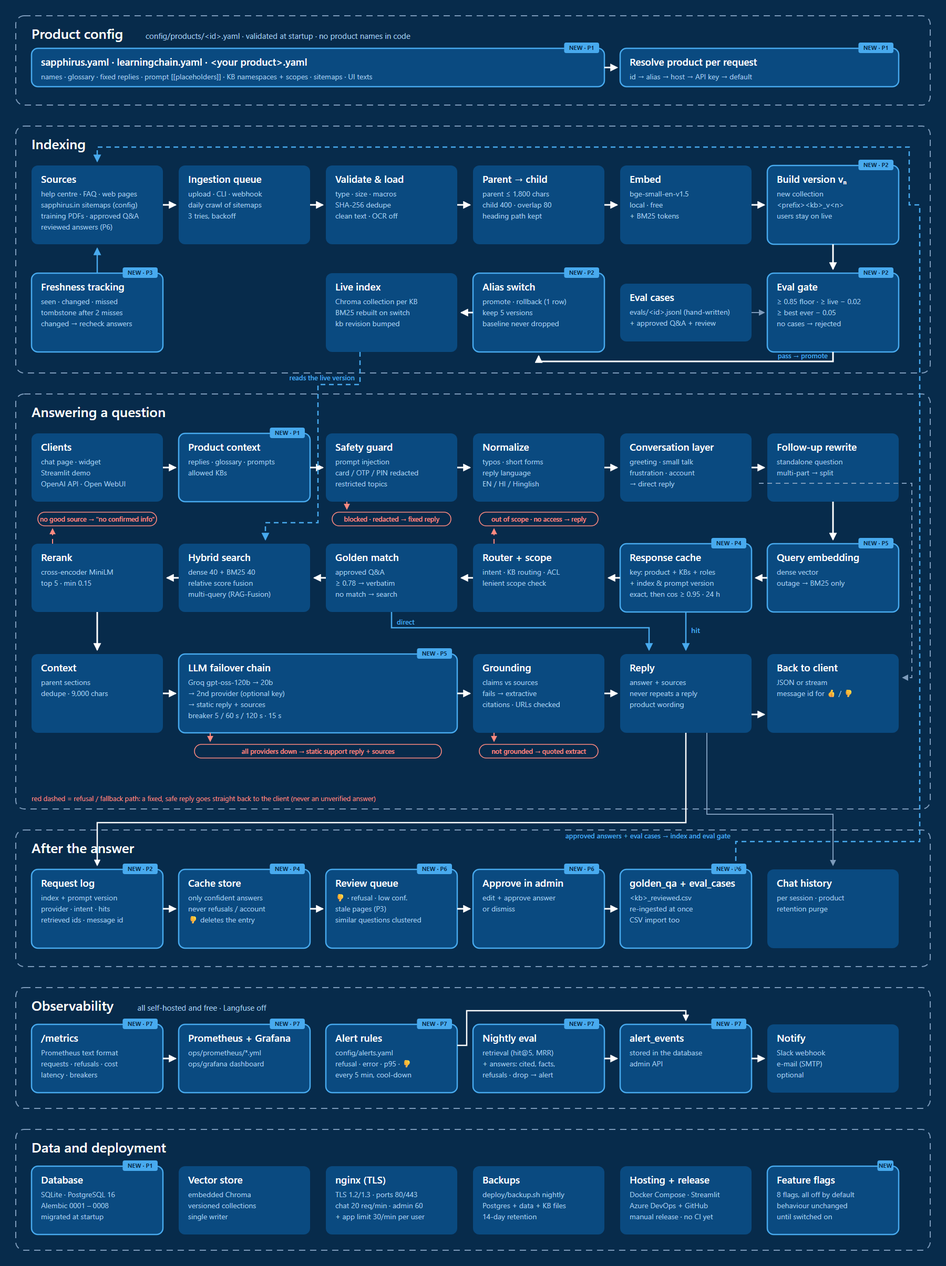
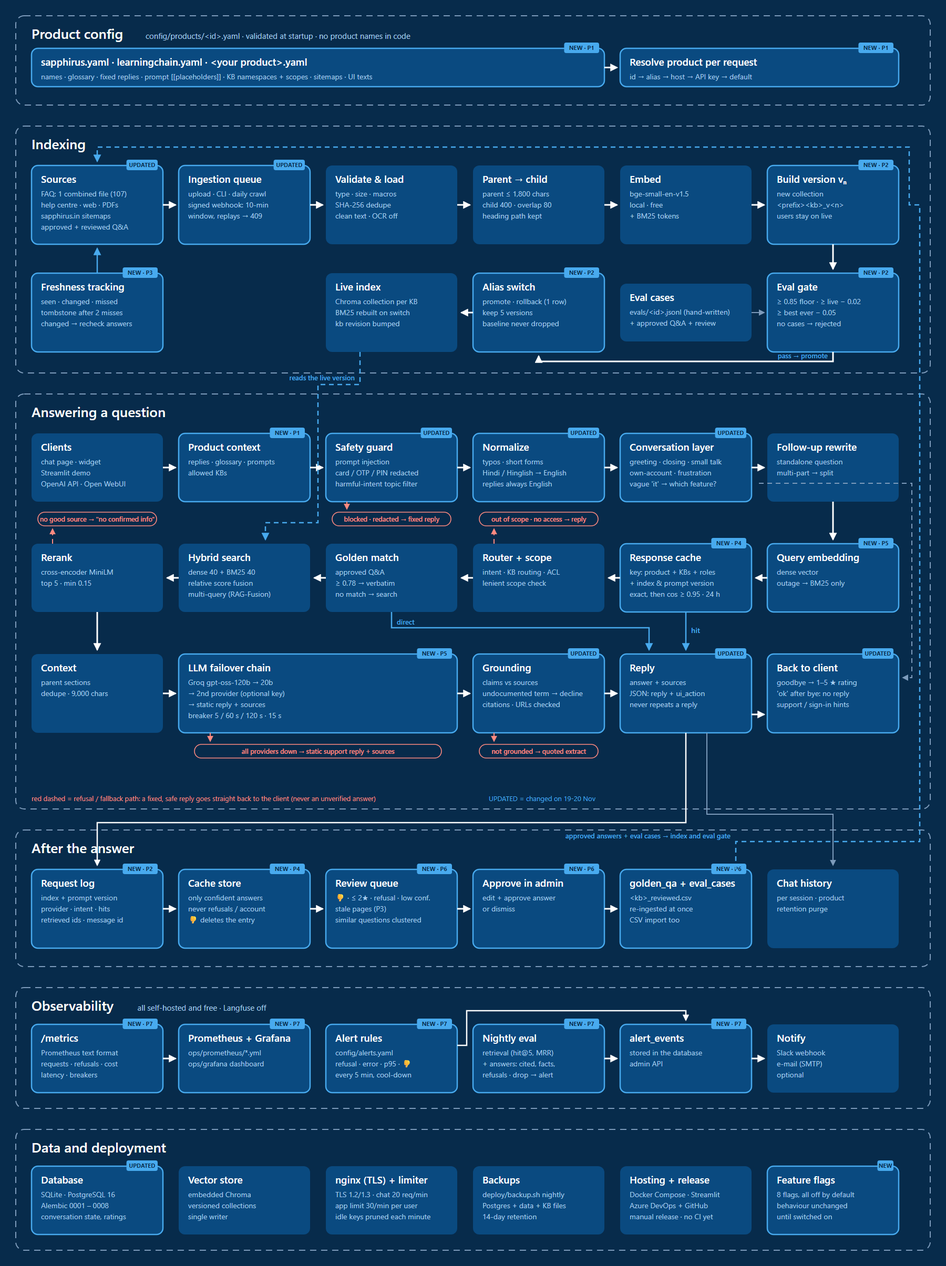
Architecture update (19-20 Nov changes) and certificate-theft questions
- Diagram + docs/architecture.md: rating flow, combined FAQ, English-only replies, review and evaluation fixes
- Theft phrasings added as alternates of FAQ LC-006 ('Can someone steal my certificate?')
- Tests: 403 passed

diff --git a/docs/diagrams/08_rag_architecture.html b/docs/diagrams/08_rag_architecture.html
@@ -34,6 +34,9 @@ td code { font-family: var(--mono); font-size: 12.5px; color: var(--muted); }
 <div class="wrap">
 <header>
   <h1>Sapphirus AI Assistant: RAG architecture after the upgrade</h1>
+  <p>Updated 20 Nov 2026 - blocks tagged <span class="tag">UPDATED</span> changed after the 7-phase upgrade:
+  conversation ending and rating, one combined FAQ file, English-only replies, the senior-review fixes (webhook replay,
+  rate limiter, topic filter) and the evaluation fixes (own-account check, vague questions, undocumented-term guard).</p>
   <p>How the assistant indexes content and answers a question after the seven-phase upgrade (19 Nov 2026), drawn from
   the current code. Blocks outlined in light blue with a <span class="tag">NEW</span> tag were added by the upgrade
   (P1-P7 = phase). Every new block sits behind a feature flag that is off by default; all of it runs on free
@@ -64,17 +67,21 @@ td code { font-family: var(--mono); font-size: 12.5px; color: var(--muted); }
   <path d="M1150 128.5 L1174 128.5" fill="none" stroke="#ffffff" stroke-width="3" marker-end="url(#ah)"/>
   <rect x="30" y="240" width="1740" height="470" rx="16" fill="none" stroke="#7d9bbb" stroke-width="2" stroke-dasharray="12 9"/>
   <text x="60" y="284" fill="#ffffff" font-size="26" font-weight="600" text-anchor="start">Indexing</text>
-  <rect x="60" y="315" width="250" height="150" rx="12" fill="#0a4a80"/>
+  <rect x="60" y="315" width="250" height="150" rx="12" fill="#0a4a80" stroke="#48aaee" stroke-width="2.5"/>
   <text x="78" y="348" fill="#ffffff" font-size="19" font-weight="600" text-anchor="start">Sources</text>
-  <text x="78" y="374" fill="#a9cdee" font-size="14" font-weight="400" text-anchor="start">help centre · FAQ · web pages</text>
-  <text x="78" y="395" fill="#a9cdee" font-size="14" font-weight="400" text-anchor="start">sapphirus.in sitemaps (config)</text>
-  <text x="78" y="416" fill="#a9cdee" font-size="14" font-weight="400" text-anchor="start">training PDFs · approved Q&amp;A</text>
-  <text x="78" y="437" fill="#a9cdee" font-size="14" font-weight="400" text-anchor="start">reviewed answers (P6)</text>
-  <rect x="340" y="315" width="250" height="150" rx="12" fill="#0a4a80"/>
+  <text x="78" y="374" fill="#a9cdee" font-size="14" font-weight="400" text-anchor="start">FAQ: 1 combined file (107)</text>
+  <text x="78" y="395" fill="#a9cdee" font-size="14" font-weight="400" text-anchor="start">help centre · web · PDFs</text>
+  <text x="78" y="416" fill="#a9cdee" font-size="14" font-weight="400" text-anchor="start">sapphirus.in sitemaps</text>
+  <text x="78" y="437" fill="#a9cdee" font-size="14" font-weight="400" text-anchor="start">approved + reviewed Q&amp;A</text>
+  <rect x="240.6" y="304" width="59.4" height="20" rx="4" fill="#48aaee"/>
+  <text x="270.3" y="318" fill="#072b4b" font-size="11" font-weight="700" text-anchor="middle">UPDATED</text>
+  <rect x="340" y="315" width="250" height="150" rx="12" fill="#0a4a80" stroke="#48aaee" stroke-width="2.5"/>
   <text x="358" y="348" fill="#ffffff" font-size="19" font-weight="600" text-anchor="start">Ingestion queue</text>
-  <text x="358" y="374" fill="#a9cdee" font-size="14" font-weight="400" text-anchor="start">upload · CLI · webhook</text>
-  <text x="358" y="395" fill="#a9cdee" font-size="14" font-weight="400" text-anchor="start">daily crawl of sitemaps</text>
-  <text x="358" y="416" fill="#a9cdee" font-size="14" font-weight="400" text-anchor="start">3 tries, backoff</text>
+  <text x="358" y="374" fill="#a9cdee" font-size="14" font-weight="400" text-anchor="start">upload · CLI · daily crawl</text>
+  <text x="358" y="395" fill="#a9cdee" font-size="14" font-weight="400" text-anchor="start">signed webhook: 10-min</text>
+  <text x="358" y="416" fill="#a9cdee" font-size="14" font-weight="400" text-anchor="start">window, replays → 409</text>
+  <rect x="520.6" y="304" width="59.4" height="20" rx="4" fill="#48aaee"/>
+  <text x="550.3" y="318" fill="#072b4b" font-size="11" font-weight="700" text-anchor="middle">UPDATED</text>
   <rect x="620" y="315" width="250" height="150" rx="12" fill="#0a4a80"/>
   <text x="638" y="348" fill="#ffffff" font-size="19" font-weight="600" text-anchor="start">Validate &amp; load</text>
   <text x="638" y="374" fill="#a9cdee" font-size="14" font-weight="400" text-anchor="start">type · size · macros</text>
@@ -151,21 +158,27 @@ td code { font-family: var(--mono); font-size: 12.5px; color: var(--muted); }
   <text x="358" y="905" fill="#a9cdee" font-size="14" font-weight="400" text-anchor="start">allowed KBs</text>
   <rect x="513.4" y="814" width="66.6" height="20" rx="4" fill="#48aaee"/>
   <text x="546.7" y="828" fill="#072b4b" font-size="11" font-weight="700" text-anchor="middle">NEW · P1</text>
-  <rect x="620" y="825" width="250" height="130" rx="12" fill="#0a4a80"/>
+  <rect x="620" y="825" width="250" height="130" rx="12" fill="#0a4a80" stroke="#48aaee" stroke-width="2.5"/>
   <text x="638" y="858" fill="#ffffff" font-size="19" font-weight="600" text-anchor="start">Safety guard</text>
   <text x="638" y="884" fill="#a9cdee" font-size="14" font-weight="400" text-anchor="start">prompt injection</text>
   <text x="638" y="905" fill="#a9cdee" font-size="14" font-weight="400" text-anchor="start">card / OTP / PIN redacted</text>
-  <text x="638" y="926" fill="#a9cdee" font-size="14" font-weight="400" text-anchor="start">restricted topics</text>
-  <rect x="900" y="825" width="250" height="130" rx="12" fill="#0a4a80"/>
+  <text x="638" y="926" fill="#a9cdee" font-size="14" font-weight="400" text-anchor="start">harmful-intent topic filter</text>
+  <rect x="800.6" y="814" width="59.4" height="20" rx="4" fill="#48aaee"/>
+  <text x="830.3" y="828" fill="#072b4b" font-size="11" font-weight="700" text-anchor="middle">UPDATED</text>
+  <rect x="900" y="825" width="250" height="130" rx="12" fill="#0a4a80" stroke="#48aaee" stroke-width="2.5"/>
   <text x="918" y="858" fill="#ffffff" font-size="19" font-weight="600" text-anchor="start">Normalize</text>
   <text x="918" y="884" fill="#a9cdee" font-size="14" font-weight="400" text-anchor="start">typos · short forms</text>
-  <text x="918" y="905" fill="#a9cdee" font-size="14" font-weight="400" text-anchor="start">reply language</text>
-  <text x="918" y="926" fill="#a9cdee" font-size="14" font-weight="400" text-anchor="start">EN / HI / Hinglish</text>
-  <rect x="1180" y="825" width="250" height="130" rx="12" fill="#0a4a80"/>
+  <text x="918" y="905" fill="#a9cdee" font-size="14" font-weight="400" text-anchor="start">Hindi / Hinglish → English</text>
+  <text x="918" y="926" fill="#a9cdee" font-size="14" font-weight="400" text-anchor="start">replies always English</text>
+  <rect x="1080.6" y="814" width="59.4" height="20" rx="4" fill="#48aaee"/>
+  <text x="1110.3" y="828" fill="#072b4b" font-size="11" font-weight="700" text-anchor="middle">UPDATED</text>
+  <rect x="1180" y="825" width="250" height="130" rx="12" fill="#0a4a80" stroke="#48aaee" stroke-width="2.5"/>
   <text x="1198" y="858" fill="#ffffff" font-size="19" font-weight="600" text-anchor="start">Conversation layer</text>
-  <text x="1198" y="884" fill="#a9cdee" font-size="14" font-weight="400" text-anchor="start">greeting · small talk</text>
-  <text x="1198" y="905" fill="#a9cdee" font-size="14" font-weight="400" text-anchor="start">frustration · account</text>
-  <text x="1198" y="926" fill="#a9cdee" font-size="14" font-weight="400" text-anchor="start">→ direct reply</text>
+  <text x="1198" y="884" fill="#a9cdee" font-size="14" font-weight="400" text-anchor="start">greeting · closing · small talk</text>
+  <text x="1198" y="905" fill="#a9cdee" font-size="14" font-weight="400" text-anchor="start">own-account · frustration</text>
+  <text x="1198" y="926" fill="#a9cdee" font-size="14" font-weight="400" text-anchor="start">vague &#x27;it&#x27; → which feature?</text>
+  <rect x="1360.6" y="814" width="59.4" height="20" rx="4" fill="#48aaee"/>
+  <text x="1390.3" y="828" fill="#072b4b" font-size="11" font-weight="700" text-anchor="middle">UPDATED</text>
   <rect x="1460" y="825" width="250" height="130" rx="12" fill="#0a4a80"/>
   <text x="1478" y="858" fill="#ffffff" font-size="19" font-weight="600" text-anchor="start">Follow-up rewrite</text>
   <text x="1478" y="884" fill="#a9cdee" font-size="14" font-weight="400" text-anchor="start">standalone question</text>
@@ -226,16 +239,20 @@ td code { font-family: var(--mono); font-size: 12.5px; color: var(--muted); }
   <text x="358" y="1367" fill="#a9cdee" font-size="14" font-weight="400" text-anchor="start">breaker 5 / 60 s / 120 s · 15 s</text>
   <rect x="793.4" y="1234" width="66.6" height="20" rx="4" fill="#48aaee"/>
   <text x="826.7" y="1248" fill="#072b4b" font-size="11" font-weight="700" text-anchor="middle">NEW · P5</text>
-  <rect x="900" y="1245" width="250" height="150" rx="12" fill="#0a4a80"/>
+  <rect x="900" y="1245" width="250" height="150" rx="12" fill="#0a4a80" stroke="#48aaee" stroke-width="2.5"/>
   <text x="918" y="1278" fill="#ffffff" font-size="19" font-weight="600" text-anchor="start">Grounding</text>
   <text x="918" y="1304" fill="#a9cdee" font-size="14" font-weight="400" text-anchor="start">claims vs sources</text>
-  <text x="918" y="1325" fill="#a9cdee" font-size="14" font-weight="400" text-anchor="start">fails → extractive</text>
+  <text x="918" y="1325" fill="#a9cdee" font-size="14" font-weight="400" text-anchor="start">undocumented term → decline</text>
   <text x="918" y="1346" fill="#a9cdee" font-size="14" font-weight="400" text-anchor="start">citations · URLs checked</text>
-  <rect x="1180" y="1245" width="250" height="150" rx="12" fill="#0a4a80"/>
+  <rect x="1080.6" y="1234" width="59.4" height="20" rx="4" fill="#48aaee"/>
+  <text x="1110.3" y="1248" fill="#072b4b" font-size="11" font-weight="700" text-anchor="middle">UPDATED</text>
+  <rect x="1180" y="1245" width="250" height="150" rx="12" fill="#0a4a80" stroke="#48aaee" stroke-width="2.5"/>
   <text x="1198" y="1278" fill="#ffffff" font-size="19" font-weight="600" text-anchor="start">Reply</text>
   <text x="1198" y="1304" fill="#a9cdee" font-size="14" font-weight="400" text-anchor="start">answer + sources</text>
-  <text x="1198" y="1325" fill="#a9cdee" font-size="14" font-weight="400" text-anchor="start">never repeats a reply</text>
-  <text x="1198" y="1346" fill="#a9cdee" font-size="14" font-weight="400" text-anchor="start">product wording</text>
+  <text x="1198" y="1325" fill="#a9cdee" font-size="14" font-weight="400" text-anchor="start">JSON: reply + ui_action</text>
+  <text x="1198" y="1346" fill="#a9cdee" font-size="14" font-weight="400" text-anchor="start">never repeats a reply</text>
+  <rect x="1360.6" y="1234" width="59.4" height="20" rx="4" fill="#48aaee"/>
+  <text x="1390.3" y="1248" fill="#072b4b" font-size="11" font-weight="700" text-anchor="middle">UPDATED</text>
   <path d="M185.0 1165 L185.0 1237" fill="none" stroke="#ffffff" stroke-width="3" marker-end="url(#ah)"/>
   <path d="M310 1320.0 L334 1320.0" fill="none" stroke="#ffffff" stroke-width="3" marker-end="url(#ah)"/>
   <path d="M870 1320.0 L894 1320.0" fill="none" stroke="#ffffff" stroke-width="3" marker-end="url(#ah)"/>
@@ -244,10 +261,13 @@ td code { font-family: var(--mono); font-size: 12.5px; color: var(--muted); }
   <text x="1315.0" y="1205" fill="#48aaee" font-size="14" font-weight="600" text-anchor="start">hit</text>
   <path d="M745.0 1165 L745.0 1195 L1235.0 1195 L1235.0 1237" fill="none" stroke="#48aaee" stroke-width="2.5" marker-end="url(#aha)"/>
   <text x="755.0" y="1189" fill="#48aaee" font-size="13" font-weight="600" text-anchor="start">direct</text>
-  <rect x="1460" y="1245" width="250" height="150" rx="12" fill="#0a4a80"/>
+  <rect x="1460" y="1245" width="250" height="150" rx="12" fill="#0a4a80" stroke="#48aaee" stroke-width="2.5"/>
   <text x="1478" y="1278" fill="#ffffff" font-size="19" font-weight="600" text-anchor="start">Back to client</text>
-  <text x="1478" y="1304" fill="#a9cdee" font-size="14" font-weight="400" text-anchor="start">JSON or stream</text>
-  <text x="1478" y="1325" fill="#a9cdee" font-size="14" font-weight="400" text-anchor="start">message id for 👍 / 👎</text>
+  <text x="1478" y="1304" fill="#a9cdee" font-size="14" font-weight="400" text-anchor="start">goodbye → 1–5 ★ rating</text>
+  <text x="1478" y="1325" fill="#a9cdee" font-size="14" font-weight="400" text-anchor="start">&#x27;ok&#x27; after bye: no reply</text>
+  <text x="1478" y="1346" fill="#a9cdee" font-size="14" font-weight="400" text-anchor="start">support / sign-in hints</text>
+  <rect x="1640.6" y="1234" width="59.4" height="20" rx="4" fill="#48aaee"/>
+  <text x="1670.3" y="1248" fill="#072b4b" font-size="11" font-weight="700" text-anchor="middle">UPDATED</text>
   <rect x="632" y="975" width="226" height="26" rx="13" fill="#072b4b" stroke="#ff8a80" stroke-width="1.6"/>
   <text x="745.0" y="993" fill="#ff8a80" font-size="12.5" font-weight="600" text-anchor="middle">blocked · redacted → fixed reply</text>
   <path d="M660 955 L660 969" fill="none" stroke="#ff8a80" stroke-width="2" stroke-dasharray="9 7" marker-end="url(#ahr)"/>
@@ -263,6 +283,7 @@ td code { font-family: var(--mono); font-size: 12.5px; color: var(--muted); }
   <rect x="912" y="1417" width="226" height="26" rx="13" fill="#072b4b" stroke="#ff8a80" stroke-width="1.6"/>
   <text x="1025.0" y="1435" fill="#ff8a80" font-size="12.5" font-weight="600" text-anchor="middle">not grounded → quoted extract</text>
   <path d="M940 1395 L940 1411" fill="none" stroke="#ff8a80" stroke-width="2" stroke-dasharray="9 7" marker-end="url(#ahr)"/>
+  <text x="930" y="1525" fill="#48aaee" font-size="13" font-weight="400" text-anchor="start">UPDATED = changed on 19-20 Nov</text>
   <text x="60" y="1525" fill="#ff8a80" font-size="13" font-weight="400" text-anchor="start">red dashed = refusal / fallback path: a fixed, safe reply goes straight back to the client (never an unverified answer)</text>
   <path d="M1444 920.0 L1735 920.0 L1735 1290.0 L1718 1290.0" fill="none" stroke="#7d9bbb" stroke-width="2" stroke-dasharray="9 7" marker-end="url(#ahm)"/>
   <path d="M1430 1360.0 L1454 1360.0" fill="none" stroke="#ffffff" stroke-width="3" marker-end="url(#ah)"/>
@@ -284,7 +305,7 @@ td code { font-family: var(--mono); font-size: 12.5px; color: var(--muted); }
   <text x="546.7" y="1658" fill="#072b4b" font-size="11" font-weight="700" text-anchor="middle">NEW · P4</text>
   <rect x="620" y="1655" width="250" height="150" rx="12" fill="#0a4a80" stroke="#48aaee" stroke-width="2.5"/>
   <text x="638" y="1688" fill="#ffffff" font-size="19" font-weight="600" text-anchor="start">Review queue</text>
-  <text x="638" y="1714" fill="#a9cdee" font-size="14" font-weight="400" text-anchor="start">👎 · refusal · low conf.</text>
+  <text x="638" y="1714" fill="#a9cdee" font-size="14" font-weight="400" text-anchor="start">👎 · ≤ 2★ · refusal · low conf.</text>
   <text x="638" y="1735" fill="#a9cdee" font-size="14" font-weight="400" text-anchor="start">stale pages (P3)</text>
   <text x="638" y="1756" fill="#a9cdee" font-size="14" font-weight="400" text-anchor="start">similar questions clustered</text>
   <rect x="793.4" y="1644" width="66.6" height="20" rx="4" fill="#48aaee"/>
@@ -365,19 +386,19 @@ td code { font-family: var(--mono); font-size: 12.5px; color: var(--muted); }
   <text x="78" y="2253" fill="#ffffff" font-size="19" font-weight="600" text-anchor="start">Database</text>
   <text x="78" y="2279" fill="#a9cdee" font-size="14" font-weight="400" text-anchor="start">SQLite · PostgreSQL 16</text>
   <text x="78" y="2300" fill="#a9cdee" font-size="14" font-weight="400" text-anchor="start">Alembic 0001 – 0008</text>
-  <text x="78" y="2321" fill="#a9cdee" font-size="14" font-weight="400" text-anchor="start">migrated at startup</text>
-  <rect x="233.4" y="2209" width="66.6" height="20" rx="4" fill="#48aaee"/>
-  <text x="266.7" y="2223" fill="#072b4b" font-size="11" font-weight="700" text-anchor="middle">NEW · P1</text>
+  <text x="78" y="2321" fill="#a9cdee" font-size="14" font-weight="400" text-anchor="start">conversation state, ratings</text>
+  <rect x="240.6" y="2209" width="59.4" height="20" rx="4" fill="#48aaee"/>
+  <text x="270.3" y="2223" fill="#072b4b" font-size="11" font-weight="700" text-anchor="middle">UPDATED</text>
   <rect x="340" y="2220" width="250" height="130" rx="12" fill="#0a4a80"/>
   <text x="358" y="2253" fill="#ffffff" font-size="19" font-weight="600" text-anchor="start">Vector store</text>
   <text x="358" y="2279" fill="#a9cdee" font-size="14" font-weight="400" text-anchor="start">embedded Chroma</text>
   <text x="358" y="2300" fill="#a9cdee" font-size="14" font-weight="400" text-anchor="start">versioned collections</text>
   <text x="358" y="2321" fill="#a9cdee" font-size="14" font-weight="400" text-anchor="start">single writer</text>
   <rect x="620" y="2220" width="250" height="130" rx="12" fill="#0a4a80"/>
-  <text x="638" y="2253" fill="#ffffff" font-size="19" font-weight="600" text-anchor="start">nginx (TLS)</text>
-  <text x="638" y="2279" fill="#a9cdee" font-size="14" font-weight="400" text-anchor="start">TLS 1.2/1.3 · ports 80/443</text>
-  <text x="638" y="2300" fill="#a9cdee" font-size="14" font-weight="400" text-anchor="start">chat 20 req/min · admin 60</text>
-  <text x="638" y="2321" fill="#a9cdee" font-size="14" font-weight="400" text-anchor="start">+ app limit 30/min per user</text>
+  <text x="638" y="2253" fill="#ffffff" font-size="19" font-weight="600" text-anchor="start">nginx (TLS) + limiter</text>
+  <text x="638" y="2279" fill="#a9cdee" font-size="14" font-weight="400" text-anchor="start">TLS 1.2/1.3 · chat 20 req/min</text>
+  <text x="638" y="2300" fill="#a9cdee" font-size="14" font-weight="400" text-anchor="start">app limit 30/min per user</text>
+  <text x="638" y="2321" fill="#a9cdee" font-size="14" font-weight="400" text-anchor="start">idle keys pruned each minute</text>
   <rect x="900" y="2220" width="250" height="130" rx="12" fill="#0a4a80"/>
   <text x="918" y="2253" fill="#ffffff" font-size="19" font-weight="600" text-anchor="start">Backups</text>
   <text x="918" y="2279" fill="#a9cdee" font-size="14" font-weight="400" text-anchor="start">deploy/backup.sh nightly</text>
@@ -405,7 +426,10 @@ td code { font-family: var(--mono); font-size: 12.5px; color: var(--muted); }
     <span class="chip">Embeddings: <b>bge-small-en-v1.5</b> (local)</span>
     <span class="chip">Search: <b>dense 40 + BM25 40, relative fusion, multi-query</b></span>
     <span class="chip">Rerank: <b>ms-marco-MiniLM-L-6-v2</b>, top 5</span>
-    <span class="chip">Database: <b>SQLite / PostgreSQL</b>, Alembic 0001-0007</span>
+    <span class="chip">Database: <b>SQLite / PostgreSQL</b>, Alembic 0001-0008</span>
+    <span class="chip">Replies: <b>English only</b> (other languages understood)</span>
+    <span class="chip">LearningChain FAQ: <b>107 approved answers</b> (FAQ_Master + 10 modes, 1 file)</span>
+    <span class="chip">Evaluation 20 Nov: <b>90% pass</b>, recall@5 0.95, 0 hallucinated claims</span>
     <span class="chip">Cache: <b>database table</b>, 24 h, semantic ≥ 0.95</span>
     <span class="chip">Eval gate: <b>floor 0.85 · live − 0.02 · best − 0.05</b>, fails closed</span>
     <span class="chip">Edge: <b>nginx TLS 1.2/1.3</b>, 20 req/min chat</span>
@@ -419,7 +443,7 @@ td code { font-family: var(--mono); font-size: 12.5px; color: var(--muted); }
   <h2>What the upgrade added</h2>
   <div class="tbl"><table>
     <tr><th>Stage</th><th>Flag</th><th>What it does</th><th>Code</th></tr>
-    <tr class="phase"><td colspan="4">Configuration</td></tr><tr><td>Product config<span class="tag">P1</span></td><td><code>PRODUCT_CONFIG_ENABLED</code></td><td>Names, glossary, replies, prompt placeholders, KB namespaces, sources and UI texts per product; resolved per request (id, alias, host, API key, default).</td><td><code>backend/products/, config/products/</code></td></tr><tr class="phase"><td colspan="4">Indexing</td></tr><tr><td>Index versions + eval gate<span class="tag">P2</span></td><td><code>INDEX_VERSIONING_ENABLED</code></td><td>Rebuild into a new collection, score hit@5 + MRR (no LLM) on hand-written + approved cases. Promote only if ≥ 0.85 floor, ≥ live − 0.02 and ≥ best ever − 0.05; no eval cases → rejected (fails closed). Instant rollback; 5 versions kept.</td><td><code>backend/indexing/versions.py, ingestion/cli.py</code></td></tr><tr><td>Freshness tracking<span class="tag">P3</span></td><td><code>DOC_TRACKING_ENABLED</code></td><td>Seen / changed / missed per crawled page; tombstone after 2 misses; product sitemaps crawled daily with include / exclude rules; changes drop cached answers and recheck approved answers.</td><td><code>ingestion/freshness.py, ingestion/automation.py</code></td></tr><tr class="phase"><td colspan="4">Answering</td></tr><tr><td>Response cache<span class="tag">P4</span></td><td><code>RESPONSE_CACHE_ENABLED</code></td><td>Database table, no Redis. The key includes product, allowed KBs, user roles, index and prompt version, so a cached answer can never cross an access boundary. Exact then semantic (cos ≥ 0.95); only confident answers; 24 h; 👎 deletes.</td><td><code>backend/services/response_cache.py</code></td></tr><tr><td>LLM failover<span class="tag">P5</span></td><td><code>LLM_FAILOVER_ENABLED</code></td><td>Groq (120b → 20b) → optional 2nd OpenAI-compatible provider → static reply with support contact and sources. Breaker 5 failures / 60 s → open 120 s; 15 s timeout, 1 retry; embedding outage → BM25 only.</td><td><code>backend/generation/failover.py</code></td></tr><tr class="phase"><td colspan="4">After the answer</td></tr><tr><td>Full request log<span class="tag">P2</span></td><td><code>always on</code></td><td>index_version, prompt_version, provider, intent, cache_hit, golden_hit, refused, retrieved chunk ids + scores, message_id on every metrics row.</td><td><code>backend/services/chat_service.py</code></td></tr><tr><td>Review queue<span class="tag">P6</span></td><td><code>REVIEW_QUEUE_ENABLED</code></td><td>👎, refusals, low-confidence answers and stale pages, clustered; approving adds golden_qa + eval_cases and re-ingests, so the next user gets the approved answer.</td><td><code>backend/services/review.py, admin.html</code></td></tr><tr class="phase"><td colspan="4">Observability</td></tr><tr><td>Metrics, alerts, nightly eval<span class="tag">P7</span></td><td><code>METRICS_ENABLED · ALERTS_ENABLED · NIGHTLY_EVAL_ENABLED</code></td><td>/metrics for Prometheus + Grafana dashboard; alert rules in config/alerts.yaml → alert_events → Slack / e-mail; nightly eval of retrieval AND answers (answered, cited, expected source, key facts, off-topic refused), saved per night; drop or low score → alert.</td><td><code>backend/observability/, ops/</code></td></tr>
+    <tr class="phase"><td colspan="4">Configuration</td></tr><tr><td>Product config<span class="tag">P1</span></td><td><code>PRODUCT_CONFIG_ENABLED</code></td><td>Names, glossary, replies, prompt placeholders, KB namespaces, sources and UI texts per product; resolved per request (id, alias, host, API key, default).</td><td><code>backend/products/, config/products/</code></td></tr><tr class="phase"><td colspan="4">Indexing</td></tr><tr><td>Index versions + eval gate<span class="tag">P2</span></td><td><code>INDEX_VERSIONING_ENABLED</code></td><td>Rebuild into a new collection, score hit@5 + MRR (no LLM) on hand-written + approved cases. Promote only if ≥ 0.85 floor, ≥ live − 0.02 and ≥ best ever − 0.05; no eval cases → rejected (fails closed). Instant rollback; 5 versions kept.</td><td><code>backend/indexing/versions.py, ingestion/cli.py</code></td></tr><tr><td>Freshness tracking<span class="tag">P3</span></td><td><code>DOC_TRACKING_ENABLED</code></td><td>Seen / changed / missed per crawled page; tombstone after 2 misses; product sitemaps crawled daily with include / exclude rules; changes drop cached answers and recheck approved answers.</td><td><code>ingestion/freshness.py, ingestion/automation.py</code></td></tr><tr class="phase"><td colspan="4">Answering</td></tr><tr><td>Response cache<span class="tag">P4</span></td><td><code>RESPONSE_CACHE_ENABLED</code></td><td>Database table, no Redis. The key includes product, allowed KBs, user roles, index and prompt version, so a cached answer can never cross an access boundary. Exact then semantic (cos ≥ 0.95); only confident answers; 24 h; 👎 deletes.</td><td><code>backend/services/response_cache.py</code></td></tr><tr><td>LLM failover<span class="tag">P5</span></td><td><code>LLM_FAILOVER_ENABLED</code></td><td>Groq (120b → 20b) → optional 2nd OpenAI-compatible provider → static reply with support contact and sources. Breaker 5 failures / 60 s → open 120 s; 15 s timeout, 1 retry; embedding outage → BM25 only.</td><td><code>backend/generation/failover.py</code></td></tr><tr class="phase"><td colspan="4">After the answer</td></tr><tr><td>Full request log<span class="tag">P2</span></td><td><code>always on</code></td><td>index_version, prompt_version, provider, intent, cache_hit, golden_hit, refused, retrieved chunk ids + scores, message_id on every metrics row.</td><td><code>backend/services/chat_service.py</code></td></tr><tr><td>Review queue<span class="tag">P6</span></td><td><code>REVIEW_QUEUE_ENABLED</code></td><td>👎, refusals, low-confidence answers and stale pages, clustered; approving adds golden_qa + eval_cases and re-ingests, so the next user gets the approved answer.</td><td><code>backend/services/review.py, admin.html</code></td></tr><tr class="phase"><td colspan="4">Updated 19-20 Nov</td></tr><tr><td>Conversation ending + rating<span class="tag">UPD</span></td><td><code>always on</code></td><td>&quot;no thanks&quot; / &quot;bye&quot; -&gt; goodbye + 1-5 star rating (ui_action = show_rating); per-session state active / closing / closed; &quot;ok&quot; or &quot;thanks&quot; after the goodbye: no LLM call and no new message; ratings &lt;= 2 go to the review queue. The LLM returns JSON {reply, ui_action, conversation_state}, validated with a safe fallback.</td><td><code>backend/services/chat_service.py, backend/generation/structured.py, chat.html</code></td></tr><tr><td>One combined FAQ file<span class="tag">UPD</span></td><td><code>-</code></td><td>datasets/source/LearningChain_FAQ_Combined.csv = FAQ_Master + the 10 certificate / QR modes: 107 served approved answers, 11 unfinished rows kept as drafts, repeated questions removed (their wording kept as alternates).</td><td><code>scripts/products/learningchain/combine_faq_sources.py, import_faq_master.py</code></td></tr><tr><td>English-only replies<span class="tag">UPD</span></td><td><code>-</code></td><td>Questions in Hindi, Hinglish or other languages are understood (translated for search); every answer is in English, so grounding always checks English text.</td><td><code>backend/routing/normalize.py, prompts/system_prompt.txt</code></td></tr><tr><td>Review fixes<span class="tag">UPD</span></td><td><code>WEBHOOK_REQUIRE_TIMESTAMP</code></td><td>Webhooks: signed timestamp within 10 min, replayed signatures rejected (409). Rate limiter: idle keys pruned every minute. Topic filter: only harmful intent is refused (&quot;Can I pay by credit card?&quot; is answered).</td><td><code>routes_webhooks.py, rate_limit.py, prompt_guard.py</code></td></tr><tr><td>Evaluation fixes<span class="tag">UPD</span></td><td><code>-</code></td><td>Account reply only for the user&#x27;s own data; a vague &quot;How do I configure it?&quot; asks which feature; a question about something no document mentions (e.g. iOS) is declined instead of guessed. Eval labels support &quot;A OR B&quot; sources.</td><td><code>intent.py, chat_service.py, evaluation/retrieval_metrics.py</code></td></tr><tr class="phase"><td colspan="4">Observability</td></tr><tr><td>Metrics, alerts, nightly eval<span class="tag">P7</span></td><td><code>METRICS_ENABLED · ALERTS_ENABLED · NIGHTLY_EVAL_ENABLED</code></td><td>/metrics for Prometheus + Grafana dashboard; alert rules in config/alerts.yaml → alert_events → Slack / e-mail; nightly eval of retrieval AND answers (answered, cited, expected source, key facts, off-topic refused), saved per night; drop or low score → alert.</td><td><code>backend/observability/, ops/</code></td></tr>
   </table></div>
 </section>
 </div>

diff --git a/scripts/products/learningchain/import_faq_master.py b/scripts/products/learningchain/import_faq_master.py
@@ -41,6 +41,12 @@ REPLACES = {"F01": "LC-001", "F02": "LC-004", "F03": "LC-003", "F13": "LC-069", 
 # FAQ entries that repeat an older or another FAQ entry: removed id -> kept id (kept entry absorbs the wording).
 MERGES = {"LC-096": "F16",          # students' access to records: the older answer is fuller (email QR + wallet + sharing)
           "LC-045": "LC-034"}       # "secure a digital certificate without a template": admin setup + user steps
+# Extra phrasings users type, added as alternate questions of an existing answer (the FAQ wording is not changed).
+# Found in testing: these were declined because the answer's own wording never says "steal" / "theft".
+EXTRA_ALTERNATES = {
+    "LC-006": ["Can someone steal my certificate?", "Can my certificate be stolen or misused?",
+               "Is my certificate safe from theft?", "Can someone copy my certificate and use it?"],
+}
 COMBINED_ANSWERS = {
     "LC-034": ("Admin setup: in the certificate type's Template Configuration card, enable 'Blockchain QR code "
                "generation without templates' (this is also the default when no template option is enabled). "
@@ -112,6 +118,10 @@ def main(source: str) -> int:
         elif kept in old_rows:
             keep_old_alts.setdefault(kept, []).extend([g["Question"]] + g["alts"])
         removed.append(f"{gone} (FAQ) -> kept {kept}: {g['Question']}")
+
+    for qid, extra in EXTRA_ALTERNATES.items():
+        if qid in faq_by_id:
+            faq_by_id[qid]["alts"] += extra
 
     # 2. exact repeats: the same normalised QUESTION twice (older answers first, then FAQ order) - first one wins
     seen: dict[str, str] = {norm(r["Question"]): qid for qid, r in old_rows.items()}

diff --git a/tests/test_review_fixes.py b/tests/test_review_fixes.py
@@ -134,3 +134,15 @@ def test_prompt_no_longer_asks_for_hindi_replies():
 
     text = (Path(__file__).resolve().parent.parent / "prompts" / "system_prompt.txt").read_text(encoding="utf-8")
     assert "Always reply in English" in text and "Devanagari -> Hindi" not in text
+
+
+@pytest.mark.parametrize("question", ["Can someone steal my certificate?", "Is my certificate safe from theft?"])
+def test_theft_questions_get_the_forgery_protection_answer(chat, public_user, question):
+    resp = chat.answer(question, public_user, persist=False)
+    assert resp.answer_type.startswith("golden") and resp.golden_match["qid"] == "LC-006"
+    assert "fails the verification" in resp.answer
+
+
+def test_payment_method_question_is_answered_honestly_not_blocked(chat, public_user):
+    resp = chat.answer("Can I pay by credit card?", public_user, persist=False)
+    assert resp.answer_type not in ("restricted", "blocked")       # not refused as a forbidden topic

diff --git a/docs/architecture.md b/docs/architecture.md
@@ -1,6 +1,7 @@
 # Architecture
 
-How the assistant indexes content and answers a question, after the seven-phase upgrade (19 Nov 2026).
+How the assistant indexes content and answers a question, after the seven-phase upgrade (19 Nov 2026), updated
+20 Nov 2026 (conversation ending + rating, combined FAQ, English-only replies, review and evaluation fixes).
 The diagram is in [`docs/diagrams/08_rag_architecture.html`](diagrams/08_rag_architecture.html)
 (also `.svg` and `.png`).
 
@@ -114,14 +115,21 @@ its product's cached answers and queues every approved answer that cites it for 
 registered from config at worker start and crawled every `CRAWL_INTERVAL_MINUTES` (daily), filtered by the
 product's `include_paths` / `exclude_paths` / `allowed_domains`. Code: `ingestion/freshness.py`.
 
+### LearningChain FAQ (approved answers)
+
+One file, `datasets/source/LearningChain_FAQ_Combined.csv` (FAQ_Master + the 10 certificate / QR generation modes),
+is loaded by `scripts/products/learningchain/import_faq_master.py` into `datasets/learningchain_faq_master.csv`:
+107 served approved answers, unfinished ("Needs input") rows kept as drafts, repeated questions removed (their
+wording kept as alternate phrasings). Answers taken from the Help Centre link to it.
+
 ## 4. Answering a question
 
 | # | Stage | What it does | Code |
 |---|---|---|---|
 | 1 | Resolve product | id / alias / host / API key / default | `backend/products/context.py` |
-| 2 | Safety guard | prompt-injection screening, sensitive data (card numbers via Luhn, OTP / PIN / password) redacted, restricted topics | `backend/security/prompt_guard.py` |
-| 3 | Normalize | typo and short-form fixes from the product glossary; reply language (English / Hindi / Hinglish) | `backend/routing/normalize.py` |
-| 4 | Conversation layer | greetings, small talk, frustration, account, escalation, incomplete input - answered without retrieval | `backend/routing/intent.py` |
+| 2 | Safety guard | prompt-injection screening, sensitive data (card numbers via Luhn, OTP / PIN / password) redacted, restricted topics refused only for harmful intent (financial advice, crime instructions, self-harm ...) - product questions such as "Can I pay by credit card?" are answered | `backend/security/prompt_guard.py` |
+| 3 | Normalize | typo and short-form fixes from the product glossary; Hindi / Hinglish / other languages translated to English for search. **Replies are always in English.** | `backend/routing/normalize.py` |
+| 4 | Conversation layer | greetings (incl. self-introductions), closing ("no thanks", "bye"), small talk, frustration, the user's own account data (only when they say my / our / I), escalation, incomplete input, vague "it" with no topic (asks which feature) - answered without retrieval | `backend/routing/intent.py` |
 | 5 | Follow-up rewrite | standalone question from the conversation; multi-part questions split | `backend/routing/router.py`, `decompose.py` |
 | 6 | Query embedding | dense vector; with `LLM_FAILOVER_ENABLED` an embedding outage switches this request to BM25-only search | `backend/generation/failover.py` (`ResilientEmbedder`) |
 | 7 | **Response cache** (Phase 4) | exact key, then semantic match (cosine >= product `semantic_cache_threshold`, 0.95) | `backend/services/response_cache.py` |
@@ -131,8 +139,9 @@ product's `include_paths` / `exclude_paths` / `allowed_domains`. Code: `ingestio
 | 11 | Rerank | cross-encoder `ms-marco-MiniLM-L-6-v2`, top 5 | `backend/retrieval/reranker.py` |
 | 12 | Context | parent sections of the best children, deduplicated, within `MAX_CONTEXT_CHARS` | `backend/generation/prompt_builder.py` |
 | 13 | **LLM failover** (Phase 5) | provider chain with circuit breakers; static `service_unavailable` reply when all are down | `backend/generation/failover.py` |
-| 14 | Grounding + citations | lexical grounding check (extractive fallback when it fails), citation and URL validation | `backend/generation/grounding.py` |
-| 15 | Persist + log | history, full request log, cache store, review queue | `chat_service.answer` |
+| 14 | Grounding + citations | lexical grounding check (extractive fallback when it fails); a question about something no indexed document mentions (e.g. "iOS app") is declined instead of guessed; citation and URL validation | `backend/generation/grounding.py` |
+| 15 | Persist + log | history, per-session conversation state, full request log, cache store, review queue | `chat_service.answer` |
+| 16 | Reply | the LLM returns JSON `{reply, ui_action, conversation_state}` (validated; invalid output -> text + `ui_action=none`); the app shows the 1-5 star rating after a goodbye, a support contact for escalations, sign-in for guests | `backend/generation/structured.py`, `backend/static/chat.html` |
 
 ### Response cache (Phase 4, `RESPONSE_CACHE_ENABLED`)
 
@@ -153,6 +162,15 @@ When every provider is down the reply is the product's `service_unavailable` tex
 questions) with the best sources linked. Breaker states are shown in `/health/ready` and `/metrics`.
 
 ## 5. After the answer
+
+### Conversation ending and rating
+
+Each session has a `conversation_state` (`active | closing | closed`, migration 0008). A goodbye ("no thanks",
+"that's all", "bye") gets the product's closing text and `ui_action = show_rating`; the chat page shows 1-5 stars
+and an optional comment until they are submitted or a new question is asked (`POST /api/feedback` with session,
+rating, comment, product and versions). After the goodbye, a short acknowledgement (ok, thanks, bye, a thumbs-up)
+makes no LLM call and stores no message; a real question re-opens the conversation. Ratings of 1-2 stars create a
+`low_rating` review item.
 
 ### Full request logging (Phase 2)
 
@@ -183,7 +201,7 @@ Langfuse tracing is deliberately not enabled (extra paid service); the request l
 ## 7. Data and deployment
 
 - **Database:** SQLite by default, PostgreSQL 16 in Docker Compose, through SQLAlchemy. The schema is managed by
-  **Alembic** (`migrations/versions/0001`-`0007`); the API applies pending migrations at startup (a pre-Alembic
+  **Alembic** (`migrations/versions/0001`-`0008`); the API applies pending migrations at startup (a pre-Alembic
   database is stamped at `0001` first, data untouched).
 
   | Migration | Adds |
@@ -195,12 +213,23 @@ Langfuse tracing is deliberately not enabled (extra paid service); the request l
   | 0005 | `review_items`, `golden_qa`, `eval_cases` |
   | 0006 | document freshness columns (`source_url`, `last_seen_at`, `last_changed_at`, `missed_crawls`, `tombstoned_at`, `last_crawl_id`) |
   | 0007 | `alert_events` |
+  | 0008 | `chat_sessions.conversation_state`; session rating fields on `feedback` (stars, session, product, versions) |
 
 - **Vector store:** embedded Chroma (one writer process); versioned collections `<prefix><kb>_v<id>`.
 - **Runtime:** FastAPI + uvicorn (one worker), background ingestion worker and ops scheduler threads.
 - **Front ends:** chat page + embeddable widget (`/chat`, `/widget.js`; texts from `/api/v1/ui`), admin console
   (`/admin`), OpenAI-compatible API (`/v1/chat/completions`, Open WebUI), Streamlit Community Cloud demo.
 - **Hosting:** Docker Compose (api + PostgreSQL + nginx); demo on Streamlit Community Cloud from GitHub.
+
+### Edge and API protection
+
+- nginx: TLS 1.2 / 1.3, chat 20 requests/min per IP (admin 60); the app adds 30 requests/min per user, and idle
+  limiter entries are pruned every minute (bounded memory).
+- Webhooks (`/api/v1/webhooks/content-updated`): HMAC signature; a signed timestamp must be within 10 minutes and a
+  signature can be used only once (replay -> 409). `WEBHOOK_REQUIRE_TIMESTAMP=true` makes the timestamp mandatory
+  for generic callers (Zendesk always sends one).
+- Backups: `deploy/backup.sh` nightly (PostgreSQL + data volume + knowledge files, 14 days). Releases are manual -
+  there is no CI pipeline yet.
 
 ## 8. Feature flags
 
